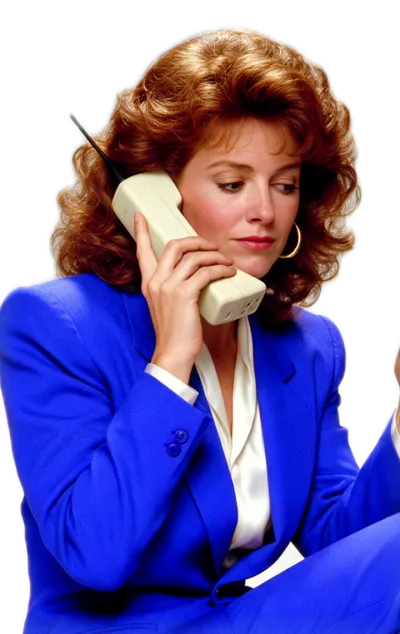
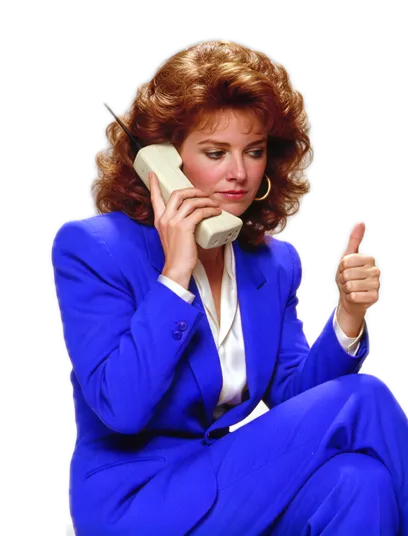
She sits in a wide mound of folders: one photo, gazes rebuilt on it
Regenerated from the Extend image with a broad mound running off both edges;
8 gaze frames + wink regenerated and re-layered. Desktop: figure anchored right
and bleeding off-screen, mound fades under the copy. Phone: zoomed crop.

diff --git a/styles.css b/styles.css
@@ -180,19 +180,19 @@ a:focus-visible { outline: 2px solid var(--acc); outline-offset: 3px; }
 /* The character. Body layer with a hole where the head goes + one head crop per gaze,
    after Carousel's Pile Lady (see brand-study/BRAND-STUDY.md, Interaction layer). The head
    box is in % of the figure, read from assets/lady/states.json, so it tracks any size. */
-/* .visual is a size container: she is sized from BOTH its height and width (min(100cqh, 130cqw);
-   her aspect is 0.75), so she shrinks smoothly as the window narrows instead of jumping, and is
-   never wider than her column. Phones: a capped band under the copy, centred. */
-.visual { position: relative; container-type: size; height: min(52svh, 460px); margin-top: -28px; } /* phone: tucked up under the copy (her frame has backdrop above the hair) */
+/* The figure is ONE photo: her on a wide mound of folders (landscape, 2352x1776). Desktop: .visual is a
+   size container; the figure is up to 1.6x the column wide (min(100cqh, 121cqw)), anchored right and pushed
+   8% past the edge, so the mound runs off the screen on the right and fades out under the copy on the
+   left, while she stays inside the column. Phones: full width, mound edge to edge. */
+.visual { position: relative; aspect-ratio: 1; margin-top: -8px; }
 .lady {
-  position: absolute; bottom: 0; left: 50%;
-  height: min(100cqh, 130cqw); aspect-ratio: 1728 / 2304;
-  transform: translateX(-56%);
+  position: absolute; bottom: 0; left: 50%; height: 100%;
+  aspect-ratio: 2352 / 1776; transform: translateX(-50%); /* phone: zoomed ~1.3x, mound trimmed at the sides */
   perspective: 1400px;
 }
 @media (min-width: 860px) {
-  .visual { height: 100%; margin-top: 0; }
-  .lady { left: auto; right: 2%; transform: none; }
+  .visual { container-type: size; aspect-ratio: auto; height: 100%; margin-top: 0; }
+  .lady { left: auto; right: 0; height: min(100cqh, 121cqw); transform: translateX(8%); }
 }
 .lady-tilt {
   position: absolute; inset: 0;
@@ -201,7 +201,7 @@ a:focus-visible { outline: 2px solid var(--acc); outline-offset: 3px; }
   will-change: transform;
 }
 .lady-body { position: absolute; inset: 0; width: 100%; height: 100%; }
-.lady-head { position: absolute; left: 17.824%; top: 4.774%; width: 41.667%; height: 49.479%; } /* from assets/lady/states.json */
+.lady-head { position: absolute; left: 28.571%; top: 6.194%; width: 34.014%; height: 59.122%; } /* from assets/lady/states.json */
 .lady-head img { position: absolute; inset: 0; width: 100%; height: 100%; opacity: 0; }
 .lady-head img.is-on { opacity: 1; } /* hard cut, as Carousel's: the tilt carries the motion */
 .lady img { pointer-events: none; user-select: none; -webkit-user-drag: none; }
@@ -384,4 +384,10 @@ a:focus-visible { outline: 2px solid var(--acc); outline-offset: 3px; }
 
 /* Short desktop windows: the quote + laurel is the first thing to go, never the CTA.
    (Kept at the end of the file: an earlier copy was silently overridden by .proof's own rule.) */
-@media (min-width: 860px) and (max-height: 680px) { .proof { display: none; } }
+@media (min-width: 860px) and (max-height: 740px) { .proof { display: none; } }
+
+
+/* The mound reaches about 20% up the figure under the copy column: keep the text above it. */
+@media (min-width: 860px) {
+  .copy { padding-bottom: clamp(56px, calc((100svh - var(--nav-h) - var(--tick-h)) * 0.19), 160px); }
+}

diff --git a/index.html b/index.html
@@ -61,8 +61,8 @@
       <div class="visual" data-slot="visual">
         <div class="lady" data-slot="lady">
           <div class="lady-tilt">
-            <img class="lady-body" data-slot="image" src="assets/lady/body.webp" width="960" height="1280"
-                 alt="A 1980s finance manager in an electric blue power suit sits on a tall stack of manila deal folders, on a brick phone, giving a thumbs-up.">
+            <img class="lady-body" data-slot="image" src="assets/lady/body.webp" width="1200" height="906"
+                 alt="A 1980s finance manager in an electric blue power suit sits on a wide mound of manila deal folders, on a brick phone, giving a thumbs-up.">
             <div class="lady-head" aria-hidden="true">
               <img data-gaze="centre" class="is-on" src="assets/lady/head-centre.webp" alt="">
               <img data-gaze="G1" alt="">

diff --git a/hero.js b/hero.js
@@ -195,7 +195,7 @@ if (canTrack) {
   addEventListener("pointermove", e => {
     if (!inView || e.pointerType !== "mouse") return;
     const r = lady.querySelector(".lady-head").getBoundingClientRect();
-    const fx = r.left + r.width * 0.64, fy = r.top + r.height * 0.28; // her face within the taller head box
+    const fx = r.left + r.width * 0.506, fy = r.top + r.height * 0.267; // her face within the taller head box
     const px = e.clientX - fx, py = e.clientY - fy;
     const dx = px / innerWidth, dy = py / innerHeight;
     look(zone(px, py));
